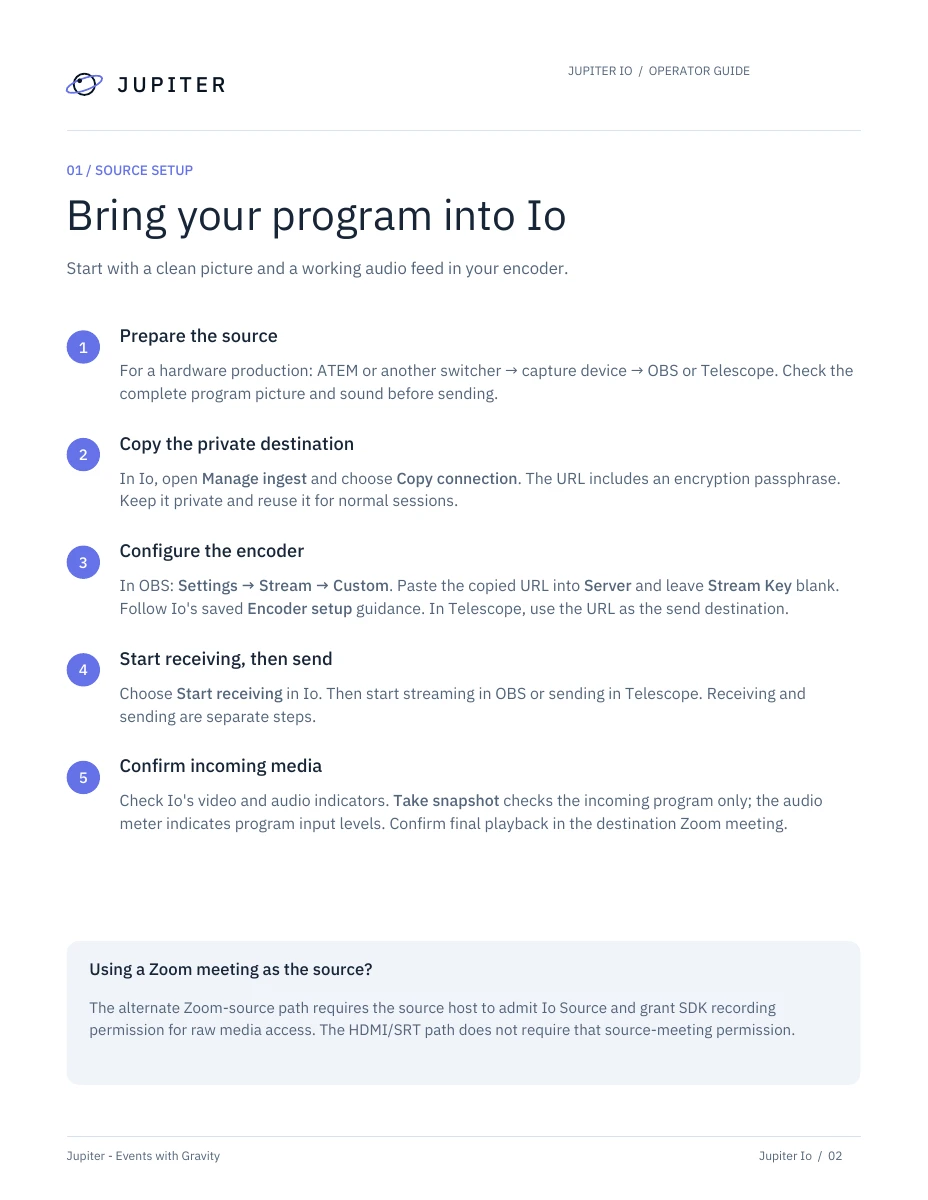
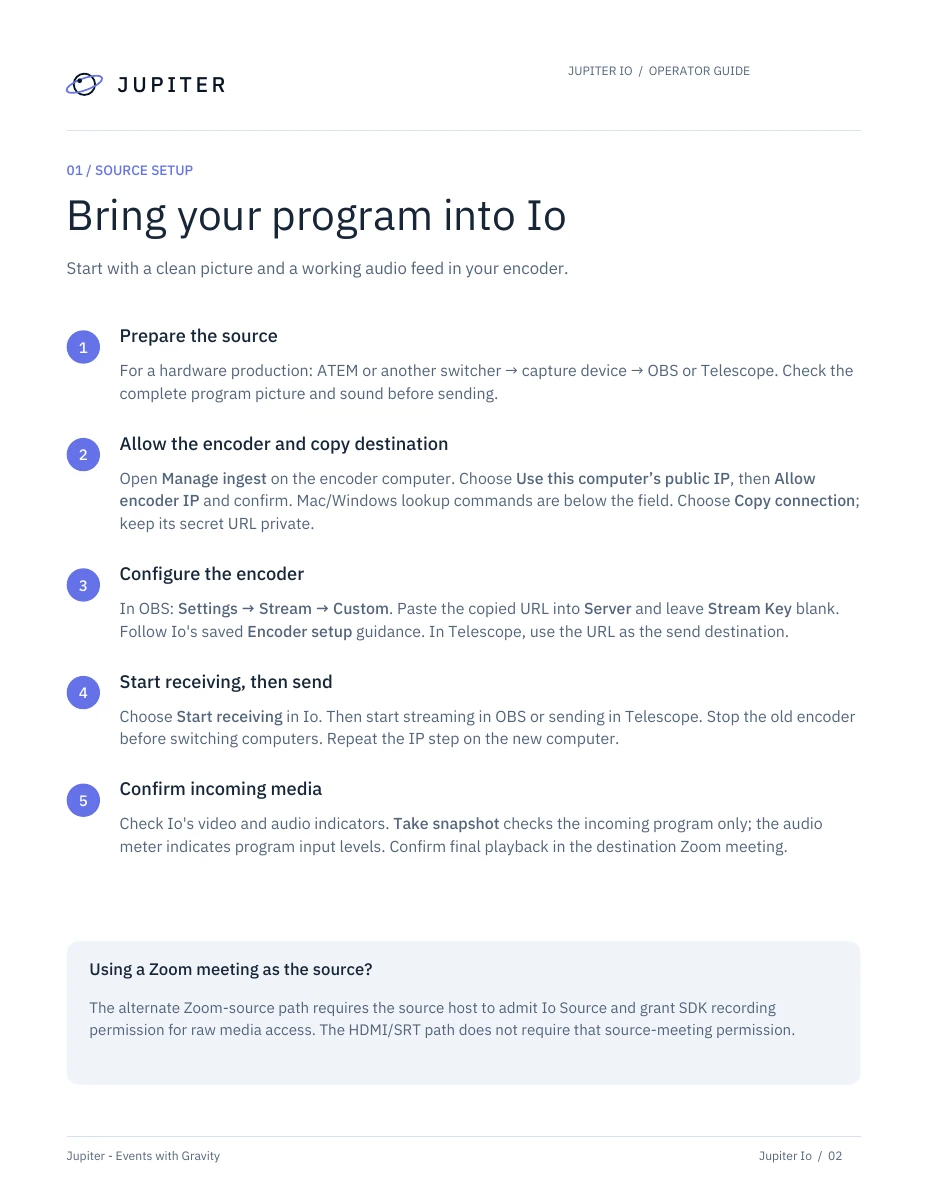
Clarify encoder switching and operator setup across Io and guide

Changed region(s): [[0.0625, 0.3392, 0.9062, 0.7092]]

diff --git a/components/zoom-bridge/ZoomSourcePanel.tsx b/components/zoom-bridge/ZoomSourcePanel.tsx
@@ -98,8 +98,8 @@ export default function ZoomSourcePanel() {
     </div> : null}
     {srt && profileEditing ? <SourceProfileEditor profile={profile} running={source.running} busy={busy} save={saveProfile} cancel={() => setProfileEditing(false)} /> : null}
     {srt && setupOpen ? <div className="mt-5 rounded-xl border border-white/10 bg-black/20 p-4 text-sm text-white/65">
-      <div className="grid gap-4 md:grid-cols-2"><div><h3 className="font-semibold text-white/85">{profile.encoderName} connection</h3><p className="mt-2">Settings → Stream → Custom. Paste the copied URL into Server. Leave Stream Key blank, then Start Streaming.</p><p className="mt-2 text-xs text-white/40">Receiver: {ingest?.configured ? `${ingest.host} · UDP ${ingest.port}` : "Connection not configured on this Jupiter server"}</p></div><div><h3 className="font-semibold text-white/85">Saved encoder guidance</h3><p className="mt-2">{dimensions} · {profile.encoderFps} fps · H.264 at {profile.encoderBitrate.toLocaleString()} Kbps · keyframe 2 seconds · AAC at 160 Kbps / 48 kHz.</p><p className="mt-2 text-xs text-white/40">Cloud relay targets {profile.relayResolution} at 15 fps and 32 kHz mono audio. Set the capture source and encoder output to {profile.relayResolution}; a larger relay canvas cannot recover detail from a lower-resolution input.</p></div></div>
-      <p className="mt-3 text-xs text-white/40">Allow UDP {ingest?.port || 9000} from the encoder’s public IP in your cloud firewall. The connection URL contains a private encryption passphrase.</p>
+      <div className="grid gap-4 md:grid-cols-2"><div><h3 className="font-semibold text-white/85">{profile.encoderName} connection</h3><p className="mt-2">Settings → Stream → Custom. Paste the copied URL into Server. Leave Stream Key blank. First allow the encoder’s public IP in Manage ingest, then click Start receiving in Io, then Start Streaming in OBS.</p><p className="mt-2 text-xs text-white/40">Receiver: {ingest?.configured ? `${ingest.host} · UDP ${ingest.port}` : "Connection not configured on this Jupiter server"}</p></div><div><h3 className="font-semibold text-white/85">Saved encoder guidance</h3><p className="mt-2">{dimensions} · {profile.encoderFps} fps · H.264 at {profile.encoderBitrate.toLocaleString()} Kbps · keyframe 2 seconds · AAC at 160 Kbps / 48 kHz.</p><p className="mt-2 text-xs text-white/40">Cloud relay targets {profile.relayResolution} at 15 fps and 32 kHz mono audio. Set the capture source and encoder output to {profile.relayResolution}; a larger relay canvas cannot recover detail from a lower-resolution input.</p></div></div>
+      <p className="mt-3 text-xs text-white/40">In Manage ingest → Encoder network access, detect or enter the encoder’s public IPv4, then confirm Allow encoder IP for UDP {ingest?.port || 9000}. Detection alone does not allow access. Keep the connection URL private; it contains an encryption passphrase.</p>
       <button type="button" className="mt-3 text-xs text-blue-300 disabled:opacity-40" disabled={busy || !ingest?.configured} onClick={() => { if (connection) { setConnection(""); setRevealed(false) } else void getConnection(false) }}>{connection ? "Hide private connection" : "Show private connection"}</button>
       {connection ? <div className="mt-2 flex gap-2"><input aria-label="Private OBS server URL" className={`${ioField} mt-0 font-mono text-xs`} readOnly type={revealed ? "text" : "password"} value={connection} autoComplete="off" onFocus={e => e.target.select()} /><button type="button" className={ioButton} aria-label={revealed ? "Mask private connection" : "Reveal private connection"} onClick={() => setRevealed(v => !v)}>{revealed ? <EyeOff size={16} /> : <Eye size={16} />}</button></div> : null}
     </div> : null}

diff --git a/components/zoom-bridge/IoSetupHelp.tsx b/components/zoom-bridge/IoSetupHelp.tsx
@@ -4,11 +4,12 @@ import { ioButton } from "./SatelliteCard"
 type Guide = "source" | "satellites"
 const guides = {
  source: [
+ ["Allow the encoder network", "ingest", "For HDMI/SRT sources, open Manage ingest → Encoder network access. For a Zoom-meeting source, skip this step. On the computer running OBS or Telescope, click Use this computer’s public IP, then Allow encoder IP and confirm. If using Jupiter on another network, enter the encoder’s public IPv4 manually. Mac and Windows commands are shown in How to find the encoder’s public IP. Wait for the allowed confirmation. Detection alone does not change the firewall."],
  ["Prepare your Program", "source", "Connect ATEM → capture device → OBS or Telescope and check picture and sound in your encoder. Edit source updates saved source information. For a Zoom source instead, enter the meeting details; its host must admit Io Source and grant SDK recording permission."],
  ["Copy the destination", "ingest", "For the HDMI path, open Manage ingest and click Copy connection. Keep the URL private: it contains an encryption passphrase. Reuse it for normal sessions; Regenerate key invalidates the old connection. Skip this step for a Zoom meeting source."],
  ["Set up the encoder", "source-help", "Open Source setup & information, then Encoder setup. In OBS use Settings → Stream → Custom. Paste the URL into Server and leave Stream Key blank. Follow the saved video and audio guidance. In Telescope, use the copied connection as your send destination."],
- ["Receive Program", "source", "Click Start receiving in Io, then start streaming in OBS or sending in Telescope. For a Zoom source, the host must admit the source participant and grant recording permission. This tutorial never starts a broadcast for you."],
- ["Check picture and sound", "source-health", "Wait for detected video and audio before connecting satellites. If nothing arrives, check capture, audio routing, the encoder destination, and that the encoder’s public IP is allowed by the receiver firewall. When finished, stop the encoder and click Stop receiving."],
+ ["Receive Program", "source", "Click Start receiving in Io first, then start streaming in OBS or sending in Telescope. When switching computers, stop the old encoder first; this receiver accepts one program sender at a time. For a Zoom source, the host must admit the source participant and grant recording permission. This tutorial never starts a broadcast for you."],
+ ["Check picture and sound", "source-health", "Wait for Video receiving and Audio receiving before connecting satellites. The black Program snapshot area is a placeholder, not a live preview: click Take snapshot to request one still image. If nothing arrives, check capture, audio routing, the encoder destination, and that the encoder’s public IP is allowed by the receiver firewall. When finished, stop the encoder and click Stop receiving."],
  ],
  satellites: [
  ["Create destinations", "fleet", "Click Add satellite to add one new destination. To add several, choose Quantity to add first. Fill in and save each new profile. Existing satellites stay unchanged; unsaved profiles also count toward the 50-profile limit."],

diff --git a/components/zoom-bridge/IngestConnectionManager.tsx b/components/zoom-bridge/IngestConnectionManager.tsx
@@ -12,7 +12,7 @@ export default function IngestConnectionManager({ ingest, receiving, fresh, busy
   return <section data-io-tour="ingest" className="io-panel io-ingest p-5">
     <h3 className="font-semibold">Manage ingest connection</h3>
     <div className="io-ingest-status grid gap-4 text-sm sm:grid-cols-3"><div><p className="text-xs text-white/40">Receiver</p><p className="mt-1">{ingest?.configured ? `${ingest.host} · UDP ${ingest.port}` : "Not configured"}</p></div><div><p className="text-xs text-white/40">Connection status</p><p className="mt-1">{!fresh ? "Controller unavailable" : pending ? "Applying new key…" : receiving ? "Program receiving" : "Waiting for encoder"}</p></div><div><p className="text-xs text-white/40">Key last regenerated</p><p className="mt-1">{ingest?.keyUpdatedAt ? new Date(ingest.keyUpdatedAt).toLocaleString() : "Original connection"}</p></div></div>
-    <details className="io-ingest-help"><summary className="cursor-pointer text-xs text-white/45">Connection details</summary><p className="mt-3 text-xs leading-5 text-white/45">Reuse this connection for normal sessions. Jupiter securely manages the encrypted SRT passphrase and updates the receiver automatically. AWS console access is not required. The encoder’s public IP must already be allowed by the receiver firewall.</p></details>
+    <details className="io-ingest-help"><summary className="cursor-pointer text-xs text-white/45">Connection details</summary><p className="mt-3 text-xs leading-5 text-white/45">Reuse this connection for normal sessions. Jupiter securely manages the encrypted SRT passphrase and updates the receiver automatically. Use Encoder network access below to allow the encoder’s public IPv4 without visiting AWS. Click Start receiving before starting OBS. Only one program encoder can send to this receiver at a time.</p></details>
     <div className="mt-4 flex flex-wrap gap-2"><button type="button" className={ioButton} disabled={busy || !ingest?.configured || pending} onClick={copy}><Copy size={16} />Copy connection</button><button type="button" className={ioButton} disabled={busy || !ingest?.configured || pending || !fresh} onClick={() => setConfirming(true)}><RefreshCw size={16} />Regenerate key</button></div>
     <EncoderNetworkAccess />
     {confirming ? <div className="mt-4 rounded-xl border border-amber-300/25 bg-amber-300/5 p-4"><p className="text-sm text-amber-100">Regenerating invalidates the previous connection and briefly interrupts program reception. After the receiver applies the new key, copy the new connection into OBS and restart streaming. Connected satellites stay in their meetings.</p><div className="mt-3 flex gap-2"><button type="button" className={ioButton} disabled={busy} onClick={() => { void regenerate().then(ok => { if (ok) setConfirming(false) }) }}>Regenerate and replace key</button><button type="button" className={ioButton} disabled={busy} onClick={() => setConfirming(false)}>Cancel</button></div></div> : null}

diff --git a/components/zoom-bridge/EncoderNetworkAccess.tsx b/components/zoom-bridge/EncoderNetworkAccess.tsx
@@ -44,7 +44,9 @@ export default function EncoderNetworkAccess() {
   return <div className="io-encoder-network col-span-full mt-4 border-t border-white/10 pt-4">
     <h4 className="text-sm font-medium">Encoder network access</h4>
     <p className="mt-2 text-xs leading-5 text-slate-300">Allow the public IPv4 of the computer sending OBS or Telescope. Detection uses this browser’s connection. For a different computer or VPN, enter that encoder’s public IP instead.</p>
+    <ol className="mt-3 list-decimal space-y-1 pl-5 text-xs leading-5 text-slate-300"><li>Open Jupiter on the computer running OBS or Telescope. Detect its IP, or enter that computer’s public IPv4 manually.</li><li>Click Allow encoder IP, confirm, and wait for the allowed message.</li><li>Click Start receiving in Program source, then Start Streaming in OBS.</li><li>Wait for video and audio reception. Click Take snapshot for a still-image check before enabling satellite picture/audio.</li></ol>
     <div className="mt-3 flex flex-wrap items-end gap-2"><label className="min-w-0 text-xs text-slate-300">Encoder public IPv4<input className={`${ioField} w-48 max-w-full`} placeholder="Public IPv4 address" value={ip} inputMode="decimal" maxLength={15} disabled={busy} onChange={event => { setIp(event.target.value); setConfirming(false); setMessage("") }} /></label><button type="button" className={ioButton} disabled={busy} onClick={() => { void detect() }}>Use this computer’s public IP</button><button type="button" className={ioButton} disabled={busy || !state?.configured || !ip.trim()} onClick={() => setConfirming(true)}>Allow encoder IP</button></div>
+    <p className="mt-3 text-xs leading-5 text-slate-400">Switching computers? Stop streaming on the old encoder first. Repeat these steps on the new computer. Devices on the same internet connection may share one public IP; a VPN can change it. This receiver accepts one program encoder at a time.</p>
     {state?.configured === false ? <p className="mt-2 text-xs text-amber-200">Automatic firewall updates need AWS setup. Detection still works; no firewall rule has been changed.</p> : null}
     {state?.addresses.length ? <p className="mt-3 break-words text-xs text-slate-400">Allowed IPv4 sources on UDP 9000: {state.addresses.join(", ")}</p> : null}
     {confirming ? <div className="mt-3 rounded border border-amber-200/30 bg-amber-200/5 p-3"><p className="text-sm">Allow {ip} to connect to Io’s encrypted SRT receiver on UDP 9000? Existing allowed sources and other ports stay unchanged.</p><div className="mt-3 flex gap-2"><button type="button" className={ioButton} disabled={busy} onClick={() => { void apply() }}>Confirm and allow IP</button><button type="button" className={ioButton} disabled={busy} onClick={() => setConfirming(false)}>Cancel</button></div></div> : null}

diff --git a/components/zoom-bridge/SatellitePreview.tsx b/components/zoom-bridge/SatellitePreview.tsx
@@ -8,7 +8,7 @@ export default function SatellitePreview({ room }: { room: ZoomRoom }) {
   const [frame, setFrame] = useState<string | null>(null)
   const [captured, setCaptured] = useState("")
   const [busy, setBusy] = useState(false)
-  const [notice, setNotice] = useState("Request one snapshot of the incoming HDMI program.")
+  const [notice, setNotice] = useState("No snapshot requested. Click Take snapshot to check the incoming program.")
   const request = useRef<AbortController | null>(null)
   useEffect(() => () => request.current?.abort(), [room.id])
   useEffect(() => {
@@ -31,7 +31,7 @@ export default function SatellitePreview({ room }: { room: ZoomRoom }) {
     finally { if (!controller.signal.aborted) setBusy(false) }
   }
   return <section className="overflow-hidden rounded-2xl border border-white/10 bg-black/30">
-    <div className="flex items-center justify-between gap-3 p-4"><h3 className="font-semibold">Program snapshot</h3><div className="flex gap-2"><button type="button" className={ioButton} disabled={busy} onClick={() => { void snapshot() }}><Camera size={16} />{busy ? "Capturing…" : "Take snapshot"}</button>{frame ? <button type="button" className={ioButton} onClick={() => setFrame(null)} aria-label="Clear snapshot"><X size={16} /></button> : null}</div></div>
+    <div className="flex items-center justify-between gap-3 p-4"><h3 className="font-semibold">Program snapshot <span className="font-normal text-xs text-white/45">· still image</span></h3><div className="flex gap-2"><button type="button" className={ioButton} disabled={busy} onClick={() => { void snapshot() }}><Camera size={16} />{busy ? "Capturing…" : "Take snapshot"}</button>{frame ? <button type="button" className={ioButton} onClick={() => setFrame(null)} aria-label="Clear snapshot"><X size={16} /></button> : null}</div></div>
     <div className="relative flex aspect-video items-center justify-center bg-black">{frame ? <><Image unoptimized src={frame} alt="On-demand incoming HDMI program snapshot" fill sizes="(max-width: 1024px) 100vw, 640px" className="object-contain" /><span className="absolute left-3 top-3 rounded bg-black/80 px-3 py-1 text-xs">Snapshot · {captured}</span></> : <div className="px-6 text-center text-sm text-white/45"><Radio className="mx-auto mb-3 text-blue-300/50" size={28} />{busy ? "Requesting one fresh frame…" : notice}</div>}</div>
     <p className="p-4 text-xs leading-5 text-white/40">Click-only still image of the program input, not destination Zoom playback. No automatic picture preview. Images bypass Supabase and transit Jupiter’s server without application storage or caching; cleared from this view after 60 seconds. Use receiving Zoom to verify delivery.</p>
   </section>
